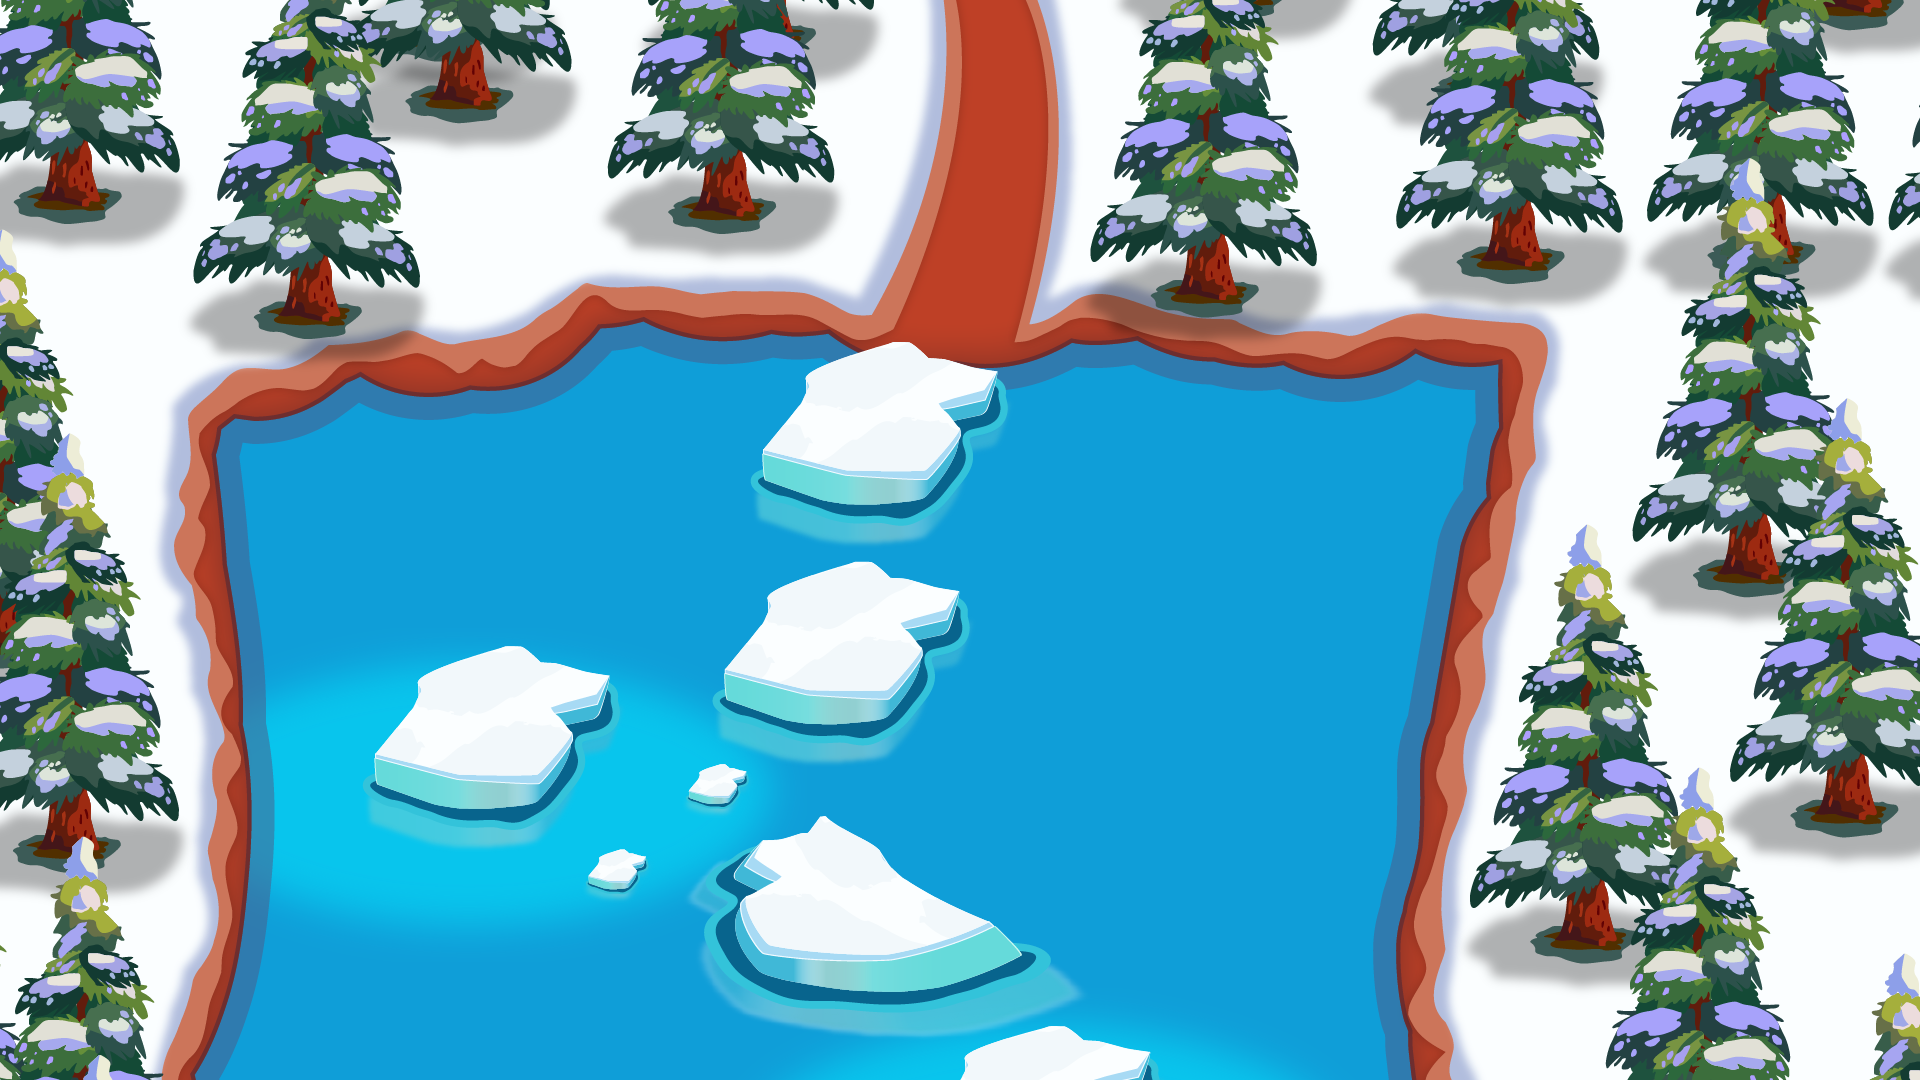
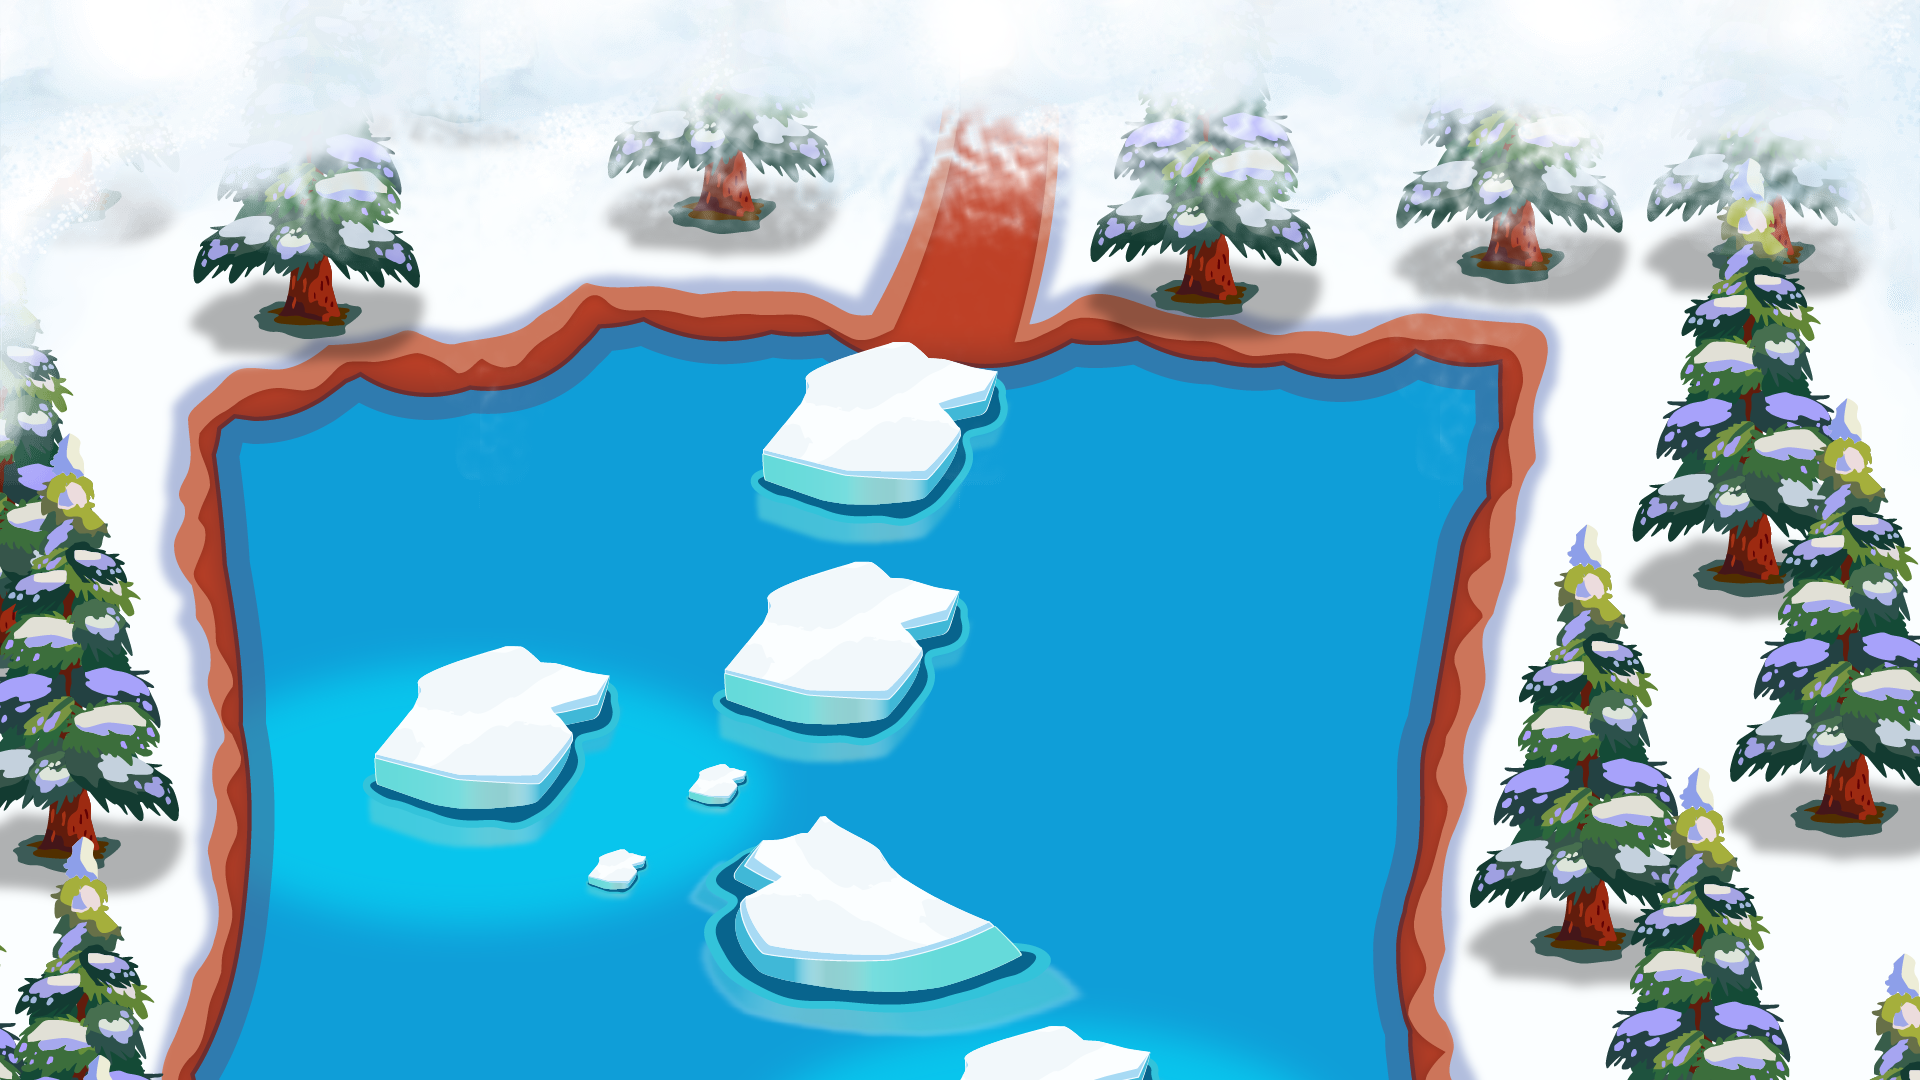
Version 0.9.6

Changed region(s): [[0.0, 0.0, 1.0, 0.4278]]

diff --git a/Sources/Screens/Screens/Levels.js b/Sources/Screens/Screens/Levels.js
@@ -31,7 +31,7 @@
 
 Levels = Screen.extend({
   m_IconsCoordinates: [
-    x: 924.734693877551, y: -9571.297959183674},
+    {x: 924.734693877551, y: -9571.297959183674},
     {x: 654.3673469387755, y: -9536.032653061226},
     {x: 611.2653061224489, y: -9342.073469387755},
     {x: 832.6530612244898, y: -9287.216326530612},
@@ -131,7 +131,7 @@ Levels = Screen.extend({
     this.name = "Levels screen";
 
     this.m_List = List.create(1920, 1080, 0, 1080 * 3, this);
-    this.m_Background1 = MapBackground.create(s_MapBackground10, this.m_List);
+    this.m_Background1 = MapBackground.create(LanguagesManager.sharedManager().parse(s_MapBackground10), this.m_List);
     this.m_Background2 = MapBackground.create(s_MapBackground9, this.m_List);
     this.m_Background3 = MapBackground.create(s_MapBackground8, this.m_List);
     this.m_Background4 = MapBackground.create(s_MapBackground7, this.m_List);
@@ -146,16 +146,16 @@ Levels = Screen.extend({
     this.m_Icons = EntityManager.create(this.m_IconsCoordinates.length, MapIcon.create(), this.m_List, 101);
 
     this.m_BackButton.create().setCenterPosition(Camera.sharedCamera().coord(100), Camera.sharedCamera().coord(100));
-    this.m_Background10.create().setCenterPosition(Camera.sharedCamera().center.x, Camera.sharedCamera().center.y - Camera.sharedCamera().height * 9);
-    this.m_Background9.create().setCenterPosition(Camera.sharedCamera().center.x, Camera.sharedCamera().center.y - Camera.sharedCamera().height * 8);
-    this.m_Background8.create().setCenterPosition(Camera.sharedCamera().center.x, Camera.sharedCamera().center.y - Camera.sharedCamera().height * 7);
-    this.m_Background7.create().setCenterPosition(Camera.sharedCamera().center.x, Camera.sharedCamera().center.y - Camera.sharedCamera().height * 6);
-    this.m_Background6.create().setCenterPosition(Camera.sharedCamera().center.x, Camera.sharedCamera().center.y - Camera.sharedCamera().height * 5);
-    this.m_Background5.create().setCenterPosition(Camera.sharedCamera().center.x, Camera.sharedCamera().center.y - Camera.sharedCamera().height * 4);
-    this.m_Background4.create().setCenterPosition(Camera.sharedCamera().center.x, Camera.sharedCamera().center.y - Camera.sharedCamera().height * 3);
-    this.m_Background3.create().setCenterPosition(Camera.sharedCamera().center.x, Camera.sharedCamera().center.y - Camera.sharedCamera().height * 2);
-    this.m_Background2.create().setCenterPosition(Camera.sharedCamera().center.x, Camera.sharedCamera().center.y - Camera.sharedCamera().height * 1);
-    this.m_Background1.create().setCenterPosition(Camera.sharedCamera().center.x, Camera.sharedCamera().center.y);
+    this.m_Background10.create().setCenterPosition(Camera.sharedCamera().center.x, Camera.sharedCamera().height - Camera.sharedCamera().height * 9);
+    this.m_Background9.create().setCenterPosition(Camera.sharedCamera().center.x, Camera.sharedCamera().height - Camera.sharedCamera().height * 8);
+    this.m_Background8.create().setCenterPosition(Camera.sharedCamera().center.x, Camera.sharedCamera().height - Camera.sharedCamera().height * 7);
+    this.m_Background7.create().setCenterPosition(Camera.sharedCamera().center.x, Camera.sharedCamera().height - Camera.sharedCamera().height * 6);
+    this.m_Background6.create().setCenterPosition(Camera.sharedCamera().center.x, Camera.sharedCamera().height - Camera.sharedCamera().height * 5);
+    this.m_Background5.create().setCenterPosition(Camera.sharedCamera().center.x, Camera.sharedCamera().height - Camera.sharedCamera().height * 4);
+    this.m_Background4.create().setCenterPosition(Camera.sharedCamera().center.x, Camera.sharedCamera().height - Camera.sharedCamera().height * 3);
+    this.m_Background3.create().setCenterPosition(Camera.sharedCamera().center.x, Camera.sharedCamera().height - Camera.sharedCamera().height * 2);
+    this.m_Background2.create().setCenterPosition(Camera.sharedCamera().center.x, Camera.sharedCamera().height - Camera.sharedCamera().height * 1);
+    this.m_Background1.create().setCenterPosition(Camera.sharedCamera().center.x, Camera.sharedCamera().height - this.m_Background1.getHeight() / 2);
     this.m_StarsCounterArea = Entity.create(s_LevelStarsCounterArea, this);
     this.m_StarsCounterArea.create().setCenterPosition(Camera.sharedCamera().width - Camera.sharedCamera().coord(160), Camera.sharedCamera().coord(70));
     this.m_StarsCounterArea.text = Text.create('total-stars', this.m_StarsCounterArea);
@@ -166,16 +166,6 @@ Levels = Screen.extend({
     this.m_StarsCounterArea.setZOrder(200);
     this.m_BackButton.setCurrentFrameIndex(1);
     this.m_BackButton.setZOrder(200);
-
-    var parallax = Entity.create(s_Cloud1);
-    this.m_Cloud = ParallaxEntity.create(parallax, {
-      x: 10,
-      y: 0
-    }, {
-      x: Camera.sharedCamera().center.x,
-      y: Camera.sharedCamera().height - parallax.getHeight() / 2 + Camera.sharedCamera().coord(300)
-    }, this);
-    this.m_Cloud.setZOrder(200);
 
     this.m_List.fixed = true;
     this.m_List.strict = true;
@@ -201,7 +191,7 @@ Levels = Screen.extend({
     for(var i = 0; i < this.m_IconsCoordinates.length; i++) {
       var element = this.m_Icons.create();
 
-      element.setCenterPosition(Camera.sharedCamera().coord(this.m_IconsCoordinates[i].x), Camera.sharedCamera().coord(this.m_IconsCoordinates[i].y));
+      element.setCenterPosition(Camera.sharedCamera().coord(this.m_IconsCoordinates[i].x), Camera.sharedCamera().coord(this.m_IconsCoordinates[i].y) + this.m_Background1.getHeight());
       if(element.isRegisterTouchable()) {
         element.registerTouchable(false);
       }

diff --git a/Sources/Lists/LivesSendList.js b/Sources/Lists/LivesSendList.js
@@ -85,28 +85,36 @@ LivesSendList = PatternList.extend({
           );
         },
         update: function(callback) {
-          // TODO: Check available time;
-          /*Tooflya.api.call('request.check', {
-            force: true
-            }, {
+          callback.finish();
+
+          var friends = FriendsManager.instance.getAppFriends();
+          var uids = [];
+          friends.forEach(function(friend) {
+            uids.push(friend.uid);
+          });
+
+          Tooflya.api.call('request.check', {
+            uids: uids,
+            type: 'live.send'
+          }, {
             success: function(data) {
               callback.finish();
 
-              if(data.requests.length > 0) {
-                callback.create(data.requests);
+              friends.forEach(function(friend) {
+                data.requests.forEach(function(entry) {
+                  if(friend.uid == entry.uid) {
+                    friend.time = entry.time;
+                  }
+                })
+              });
+
+              if(friends.length > 0) {
+                callback.create(friends);
               } else {
                 callback.empty();
               }
             }
-          });*/
-          callback.finish();
-
-          var friends = FriendsManager.instance.getAppFriends();
-          if(friends.length > 0) {
-            callback.create(friends);
-          } else {
-            callback.empty();
-          }
+          });
         },
         finish: function() {
           this.m_Text[1].setVisible(false);
@@ -173,22 +181,38 @@ LivesSendList = PatternList.extend({
               }
             };
 
-            this.createButton({
-              texts: {
-                original: 'friends-live-present-1',
-                hover: '',
-                complete: 'friends-live-present-2'
-              },
-              icon: AnimatedEntity.create(s_PanelIcon3, 3, 3),
-              handlers: {
-                create: function() {
-                  this.elements.button.icon.animate(0.06, 2, {start: 0, end: 7}, {start: 0, end: 5.0});
-                  this.elements.button.text.setCenterPosition(this.elements.button.text.getWidth() / 2 + Camera.sharedCamera().coord(65), this.elements.button.getHeight() / 2);
+            if((Date.now() / 1000) - parseInt(user.time) < 24 * 60 * 60) {
+              this.createText('friends-lives-popup-5',
+                {
+                  create: function() {
+                    this.elements.text.create().setColor(cc.c3(204.0, 102.0, 51.0));
+                  },
+                  update: function(time) {
+                    this.elements.text.setCenterPosition(this.elements.text.getWidth() / 2 + Camera.sharedCamera().coord(130), Camera.sharedCamera().coord(40));
+                    if(this.elements.text.timeLeft(Date.now() / 1000 - this.data.time, 24 * 60 * 60) <= 0) {
+                      // TODO: Destroy text and create new button.
+                    }
+                  }
+                }
+              );
+            } else {
+              this.createButton({
+                texts: {
+                  original: 'friends-live-present-1',
+                  hover: '',
+                  complete: 'friends-live-present-2'
                 },
-                touch: handlers.touch,
-                update: handlers.update
-              }
-            });
+                icon: AnimatedEntity.create(s_PanelIcon3, 3, 3),
+                handlers: {
+                  create: function() {
+                    this.elements.button.icon.animate(0.06, 2, {start: 0, end: 7}, {start: 0, end: 5.0});
+                    this.elements.button.text.setCenterPosition(this.elements.button.text.getWidth() / 2 + Camera.sharedCamera().coord(65), this.elements.button.getHeight() / 2);
+                  },
+                  touch: handlers.touch,
+                  update: handlers.update
+                }
+              });
+            }
           });
         }.bind(this));
       }

diff --git a/Sources/Resources.js b/Sources/Resources.js
@@ -277,6 +277,8 @@ var s_MapBackground7 = "Resources/Graphics/map-background-7.png";
 var s_MapBackground8 = "Resources/Graphics/map-background-8.png";
 var s_MapBackground9 = "Resources/Graphics/map-background-9.png";
 var s_MapBackground10 = "Resources/Graphics/map-background-10.png";
+var s_MapBackground10English = "Resources/Graphics/map-background-10-0.png";
+var s_MapBackground10Russian = "Resources/Graphics/map-background-10-1.png";
 var s_LevelsMapTrees = "Resources/Graphics/levels-map-trees.png";
 var s_LevelsMapIcons = "Resources/Graphics/levels-map-icons.png";
 var s_LevelsMapPoint = "Resources/Graphics/levels-map-point.png";
@@ -636,6 +638,14 @@ var resources = [
   {src: s_MapBackground1},
   {src: s_MapBackground2},
   {src: s_MapBackground3},
+  {src: s_MapBackground4},
+  {src: s_MapBackground5},
+  {src: s_MapBackground6},
+  {src: s_MapBackground7},
+  {src: s_MapBackground8},
+  {src: s_MapBackground9},
+  {src: s_MapBackground10Russian},
+  {src: s_MapBackground10English},
   {src: s_LevelsMapTrees},
   {src: s_LevelsMapIcons},
   {src: s_LevelsMapPoint},

diff --git a/Sources/Language.js b/Sources/Language.js
@@ -2340,6 +2340,16 @@ var g_language  = {
     {title: "", font: "Comic Sans MS", size: 36, dimensions: [450, 0]},
     {title: "", font: "RiiPopkk-R", size: 36, dimensions: [450, 0]}
     ],
+  'friends-lives-popup-5': [
+    {title: "Remaining $1", font: "Comic Sans MS", size: 32, dimensions: [450, 0]},
+    {title: "Осталось: $1", font: "Comic Sans MS", size: 32, dimensions: [450, 0]},
+    {title: "", font: "Comic Sans MS", size: 32, dimensions: [450, 0]},
+    {title: "", font: "Comic Sans MS", size: 32, dimensions: [450, 0]},
+    {title: "", font: "Comic Sans MS", size: 32, dimensions: [450, 0]},
+    {title: "", font: "Comic Sans MS", size: 32, dimensions: [450, 0]},
+    {title: "", font: "Comic Sans MS", size: 32, dimensions: [450, 0]},
+    {title: "", font: "RiiPopkk-R", size: 32, dimensions: [450, 0]}
+    ],
   'request-battle': [
     {title: 'Request', font: 'Comic Sans MS', size: 48, dimensions: false},
     {title: 'Пригласить', font: 'Comic Sans MS', size: 38, dimensions: false},

diff --git a/Sources/Lists/LeaderboardList.js b/Sources/Lists/LeaderboardList.js
@@ -152,10 +152,13 @@ LeaderboardList = PatternList.extend({
           }
 
           this.m_BackgroundHolder.create(user, function() {
-            this.createText('leaderboard-score', function() {
-              this.elements.text.ccsf([this.data.rating, '']);
-              this.elements.text.create().setCenterPosition(this.elements.text.getWidth() / 2 + Camera.sharedCamera().coord(130), Camera.sharedCamera().coord(50));
-              this.elements.text.setColor(cc.c3(204.0, 102.0, 51.0));
+            this.createText('leaderboard-score',
+            {
+              create: function() {
+                this.elements.text.ccsf([this.data.rating, '']);
+                this.elements.text.create().setCenterPosition(this.elements.text.getWidth() / 2 + Camera.sharedCamera().coord(130), Camera.sharedCamera().coord(50));
+                this.elements.text.setColor(cc.c3(204.0, 102.0, 51.0));
+              }
             });
           });
 

diff --git a/Sources/Entities/Entry.js b/Sources/Entities/Entry.js
@@ -279,12 +279,24 @@ Entry = Entity.extend({
 
     params.handlers.create();
   },
-  createText: function(text, callback) {
+  createText: function(text, callbacks) {
     this.elements.text = Text.create(text, this, cc.TEXT_ALIGNMENT_LEFT);
 
-    if(callback) {
-      callback = callback.bind(this);
-      callback();
+    if(callbacks) {
+      if(callbacks.create) {
+        callbacks.create = callbacks.create.bind(this);
+
+        callbacks.create();
+      }
+      if(callbacks.update) {
+        callbacks.update = callbacks.update.bind(this);
+
+        this.elements.text.update = function(time) {
+          Text.prototype.update.call(this, time);
+
+          callbacks.update(time);
+        };
+      }
     }
   },
   update: function(time) {

diff --git a/Sources/Entities/BubblePoping.js b/Sources/Entities/BubblePoping.js
@@ -31,7 +31,7 @@
 
 BubblePoping = AnimatedEntity.extend({
   ctor: function() {
-    this._super(s_ElementsBubblesPoping, 3, 4);
+    this._super(s_ElementsBubblesPoping, 1, 8);
   },
   onCreate: function() {
     this._super();

diff --git a/app.js b/app.js
@@ -31,7 +31,7 @@
 
 (function() {
   App.run(false, {
-    version: '0.9.5',
+    version: '0.9.6',
     application: 5,
     platform: 'standalone',
     auto: false,

diff --git a/app.playtest.js b/app.playtest.js
@@ -31,7 +31,7 @@
 
 (function() {
   App.run(false, {
-    version: '0.9.5',
+    version: '0.9.6',
     application: 5,
     platform: 'vk',
     auto: false,

diff --git a/app.vk.js b/app.vk.js
@@ -31,7 +31,7 @@
 
 (function() {
   App.run(false, {
-    version: '0.9.5',
+    version: '0.9.6',
     application: 6,
     platform: 'vk',
     auto: true,
